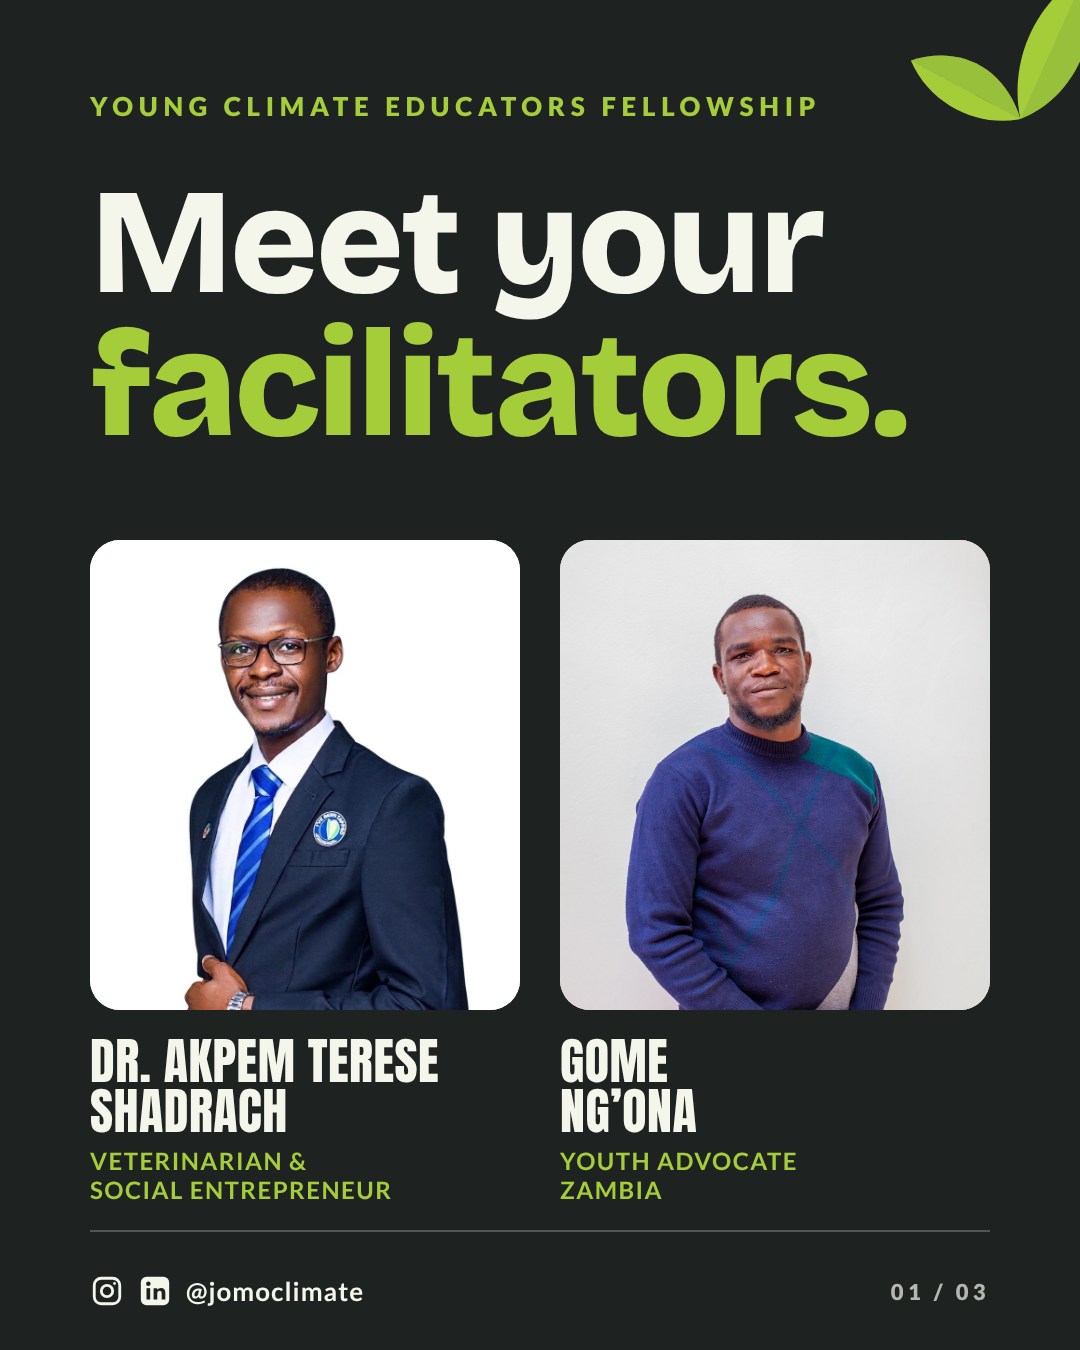
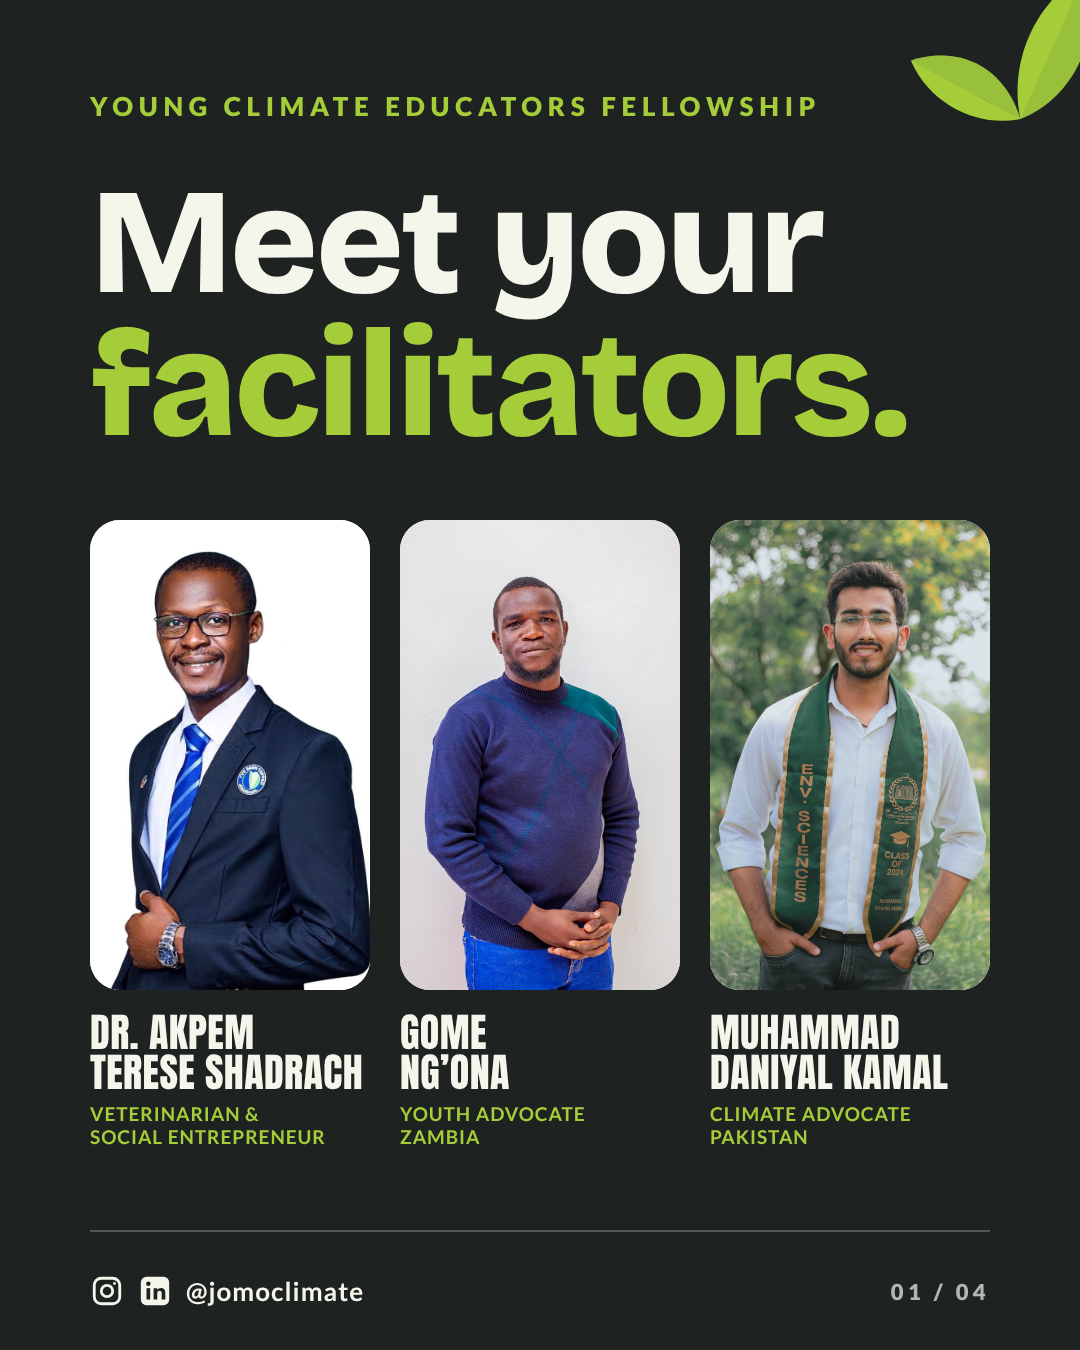
draft: facilitators carousel adds Muhammad Daniyal Kamal (4 slides, needs re-approval)
Claude-Session: https://claude.ai/code/session_01F6NcUsFQ3PsVvfZiAxD4Cd

Changed region(s): [[0.0611, 0.3733, 0.9167, 0.9022]]

diff --git a/tools/facilitators.py b/tools/facilitators.py
@@ -1,4 +1,4 @@
-"""YCEF facilitator bio flyers: a 3-slide carousel (cover + one bio each), 1080x1350.
+"""YCEF facilitator bio flyers: a 4-slide carousel (cover + one bio each), 1080x1350.
 Bios: the facilitators' own bios in the Drive folder "YCEF Facilitator Profile and Pictures", condensed.
 Photos: assets/photos/people/ycef-facilitators/ (consent rows in content/consent-log.csv).
 Run: python3 facilitators.py && node render.js
@@ -8,6 +8,8 @@ from build import *
 PH = ROOT.parent / "assets/photos/people/ycef-facilitators"
 SHADRACH = f"file://{PH}/akpem-terese-shadrach.jpg"
 GOME = f"file://{PH}/gome-ngona.jpg"
+DANIYAL = f"file://{PH}/muhammad-daniyal-kamal.jpg"   # cropped to head and shoulders from the full-length original
+T = 4
 
 EXTRA = f"""<style>
 .card {{ position:absolute; border-radius:30px; overflow:hidden; background:#fff; }}
@@ -21,31 +23,32 @@ EXTRA = f"""<style>
 .pt b {{ font-weight:900; }}
 </style>"""
 
-def bio(n, label, name_html, role, photo, pos, points, total=3):
+def bio(n, label, name_html, role, photo, pos, points, total=T, name_size=100):
     pts = "".join(f'<div class="pt"><div class="dot"></div><div>{p}</div></div>' for p in points)
     return page(f"""{EXTRA}
   <div class="label">{label}</div>
-  <div class="name" style="font-size:100px;margin-top:40px;width:470px">{name_html}</div>
-  <div class="role" style="margin-top:28px;width:470px">{role}</div>
+  <div class="name" style="font-size:{name_size}px;margin-top:40px;width:440px">{name_html}</div>
+  <div class="role" style="margin-top:28px;width:420px">{role}</div>
   <div style="position:absolute;right:66px;top:114px;width:440px;height:560px;border-radius:30px;background:{LIME}"></div>
   <div class="card" style="right:90px;top:90px;width:440px;height:560px"><img src="{photo}" style="object-position:{pos}"></div>
   <div class="pts" style="top:700px">{pts}</div>
 """, "off", n, total)
 
-# 1. Cover: both facilitators
-def portrait(photo, pos, name, sub, left):
-    return f'''<div class="card" style="left:{left}px;top:540px;width:430px;height:470px"><img src="{photo}" style="object-position:{pos}"></div>
-  <div style="position:absolute;left:{left}px;top:1036px;width:430px">
-    <div class="name" style="font-size:50px">{name}</div>
-    <div style="font-size:24px;font-weight:700;letter-spacing:.06em;margin-top:10px;color:{LIME}">{sub}</div></div>'''
+# 1. Cover: all three facilitators
+def portrait(photo, pos, name, sub, left, w=280):
+    return f'''<div class="card" style="left:{left}px;top:520px;width:{w}px;height:470px"><img src="{photo}" style="object-position:{pos}"></div>
+  <div style="position:absolute;left:{left}px;top:1012px;width:{w}px">
+    <div class="name" style="font-size:40px">{name}</div>
+    <div style="font-size:19px;font-weight:700;letter-spacing:.05em;margin-top:10px;color:{LIME}">{sub}</div></div>'''
 
 write("ycef-facilitators-01", page(f"""{EXTRA}
   <div class="label">Young Climate Educators Fellowship</div>
   <div class="brico" style="font-size:150px;margin-top:50px">Meet your<br><span style="color:{LIME}">facilitators.</span></div>
   {sprout(200, extra="right:-30px;top:-30px;transform:rotate(-12deg)")}
-  {portrait(SHADRACH, "50% 12%", "Dr. Akpem Terese<br>Shadrach", "VETERINARIAN &amp;<br>SOCIAL ENTREPRENEUR", 90)}
-  {portrait(GOME, "50% 14%", "Gome<br>Ng&rsquo;ona", "YOUTH ADVOCATE<br>ZAMBIA", 560)}
-""", "ink", 1, 3))
+  {portrait(SHADRACH, "50% 12%", "Dr. Akpem<br>Terese Shadrach", "VETERINARIAN &amp;<br>SOCIAL ENTREPRENEUR", 90)}
+  {portrait(GOME, "50% 14%", "Gome<br>Ng&rsquo;ona", "YOUTH ADVOCATE<br>ZAMBIA", 400)}
+  {portrait(DANIYAL, "50% 10%", "Muhammad<br>Daniyal Kamal", "CLIMATE ADVOCATE<br>PAKISTAN", 710)}
+""", "ink", 1, T))
 
 # 2. Dr. Akpem Terese Shadrach
 write("ycef-facilitators-02", bio(2, "YCEF facilitator",
@@ -68,4 +71,14 @@ write("ycef-facilitators-03", bio(3, "YCEF facilitator",
     "Passionate about <b>climate education and storytelling</b>",
     "Helps young people turn climate knowledge into <b>practical, community-led solutions</b>",
   ]))
+# 4. Muhammad Daniyal Kamal
+write("ycef-facilitators-04", bio(4, "YCEF facilitator",
+  "Muhammad<br>Daniyal<br><span style='color:" + OLIVE + "'>Kamal</span>",
+  "Climate advocate and sustainability leader from Pakistan",
+  DANIYAL, "50% 12%", [
+    "<b>Co-founder, RE-AD: Resilience and Adaptation</b>, a youth-led group for climate education, disaster risk reduction and water stewardship for students across Pakistan",
+    "<b>Official delegate for Pakistan at COP16</b> of the UN Convention to Combat Desertification, Riyadh",
+    "<b>Secretary SDGs, The Buraaq Association</b> (2023&ndash;2025), leading youth initiatives on the UN SDGs",
+    "Bachelor&rsquo;s in <b>Environmental Sciences</b>, Quaid-i-Azam University, Islamabad",
+  ], name_size=84))
 print("facilitators ok")

diff --git a/content/posts/2026-10-30-ycef-facilitators/captions.md b/content/posts/2026-10-30-ycef-facilitators/captions.md
@@ -1,20 +1,22 @@
 # Captions: Meet your YCEF facilitators
 Role: Copywriter (hook by Creative Director, visuals by Designer)
 
-Bios condensed from the facilitators' own bios in the Drive folder "YCEF Facilitator Profile and Pictures" (`Doc's BIO.docx`, `Gome Ng'ona Bio`). Photos from the same folder, saved in `assets/photos/people/ycef-facilitators/`.
+Bios condensed from the facilitators' own bios in the Drive folder "YCEF Facilitator Profile and Pictures" (`Doc's BIO.docx`, `Gome Ng'ona Bio`, `Muhammad Daniyal Kamal Profile`). Photos from the same folder, saved in `assets/photos/people/ycef-facilitators/`.
 
-Slot: Mon 2 Nov (week plan of 1 Nov, approved 2026-11-01), the day before YCEF closes. The post itself still needs the operator's sign-off, photo consent and each facilitator's OK.
+Slot: Mon 2 Nov (week plan of 1 Nov, approved 2026-11-01), the day before YCEF closes. Updated 2026-11-01 with a third facilitator, Muhammad Daniyal Kamal (operator added his folder). The change needs the operator's sign-off again, plus his photo consent.
 
 ### Mon 2026-11-02, 18:00 WAT · Instagram + Facebook (carousel) · Opportunities and calls to action
 Hook: Meet your facilitators.
-Visual: `visuals/ycef-facilitators-01.png` to `visuals/ycef-facilitators-03.png` (cover, Dr. Shadrach, Gome Ng'ona)
+Visual: `visuals/ycef-facilitators-01.png` to `visuals/ycef-facilitators-04.png` (cover, Dr. Shadrach, Gome Ng'ona, Muhammad Daniyal Kamal)
 
 Caption — Instagram:
-Meet two of your YCEF facilitators. 🌱
+Meet three of your YCEF facilitators. 🌱
 
 Dr. Akpem Terese Shadrach is a veterinarian and social entrepreneur, the founder of Vet Konect, who has trained and mentored 30,000+ young people in digital skills.
 
 Gome Ng’ona is a Zambian cultural heritage practitioner and youth advocate who helps young people turn climate knowledge into practical, community-led solutions.
+
+Muhammad Daniyal Kamal is a climate advocate from Pakistan, co-founder of the youth-led RE-AD: Resilience and Adaptation, and was an official delegate at COP16 of the UN Convention to Combat Desertification.
 
 Swipe to read their bios ➡
 
@@ -25,11 +27,13 @@ Apply: link in bio.
 #YCEF #ClimateAction #YouthLed #Nigeria #Zambia
 
 Caption — Facebook:
-Meet two of your YCEF facilitators. 🌱
+Meet three of your YCEF facilitators. 🌱
 
 Dr. Akpem Terese Shadrach is a veterinarian and social entrepreneur, the founder of Vet Konect, who has trained and mentored 30,000+ young people in digital skills.
 
 Gome Ng’ona is a Zambian cultural heritage practitioner and youth advocate who helps young people turn climate knowledge into practical, community-led solutions.
+
+Muhammad Daniyal Kamal is a climate advocate from Pakistan, co-founder of the youth-led RE-AD: Resilience and Adaptation, and was an official delegate at COP16 of the UN Convention to Combat Desertification.
 
 Swipe to read their bios.
 
@@ -39,18 +43,20 @@ Apply: https://jomoclimatechange.org/events?apply=ycef
 
 #YCEF #ClimateAction #YouthLed
 
-Alt text: Slide 1: dark graphic titled "Meet your facilitators" for the Young Climate Educators Fellowship, with portrait photos of Dr. Akpem Terese Shadrach, veterinarian and social entrepreneur, in a navy suit and blue tie, and Gome Ng'ona, youth advocate from Zambia, in a navy sweater. Slide 2: Dr. Akpem Terese Shadrach's photo and bio: founder of Vet Konect, trained and mentored 30,000+ young people in digital skills, lead facilitator for Jobberman Nigeria in Benue State, 2023 Mandela Washington Fellow and 2024 Top Agri-food Pioneer (World Food Prize Foundation). Slide 3: Gome Ng'ona's photo and bio: background in education, climate advocacy and community engagement; youth-led climate action, malaria elimination advocacy and environmental sustainability; passionate about climate education and storytelling.
+Alt text: Slide 1: dark graphic titled "Meet your facilitators" for the Young Climate Educators Fellowship, with portrait photos of Dr. Akpem Terese Shadrach, veterinarian and social entrepreneur, in a navy suit and blue tie, Gome Ng'ona, youth advocate from Zambia, in a navy sweater, and Muhammad Daniyal Kamal, climate advocate from Pakistan, in a white shirt and green Environmental Sciences graduation stole. Slide 2: Dr. Akpem Terese Shadrach's photo and bio: founder of Vet Konect, trained and mentored 30,000+ young people in digital skills, lead facilitator for Jobberman Nigeria in Benue State, 2023 Mandela Washington Fellow and 2024 Top Agri-food Pioneer (World Food Prize Foundation). Slide 3: Gome Ng'ona's photo and bio: background in education, climate advocacy and community engagement; youth-led climate action, malaria elimination advocacy and environmental sustainability; passionate about climate education and storytelling. Slide 4: Muhammad Daniyal Kamal's photo and bio: co-founder of RE-AD: Resilience and Adaptation; official delegate for Pakistan at COP16 of the UN Convention to Combat Desertification, Riyadh; Secretary SDGs, The Buraaq Association (2023–2025); Bachelor's in Environmental Sciences, Quaid-i-Azam University, Islamabad.
 
 ### Mon 2026-11-02, 11:00 WAT · LinkedIn (document carousel) · Opportunities and calls to action
 Hook: Meet your facilitators.
-Visual: `visuals/ycef-facilitators-01.png` to `visuals/ycef-facilitators-03.png` (upload as a PDF document post, or as three images)
+Visual: `visuals/ycef-facilitators-01.png` to `visuals/ycef-facilitators-04.png` (upload as a PDF document post, or as four images)
 
 Caption — LinkedIn:
-Meet two of the facilitators for the Young Climate Educators Fellowship (YCEF).
+Meet three of the facilitators for the Young Climate Educators Fellowship (YCEF).
 
 Dr. Akpem Terese Shadrach is a veterinarian, social entrepreneur and founder of Vet Konect, a digital animal health platform for livestock farmers and pet owners across Africa. He has trained and mentored 30,000+ young people in digital skills, leads Jobberman Nigeria's facilitators in Benue State, and is a 2023 Mandela Washington Fellow.
 
 Gome Ng’ona is a Zambian cultural heritage practitioner, development professional and youth advocate. His work spans youth-led climate action, malaria elimination advocacy and environmental sustainability, and he is passionate about climate education and storytelling.
+
+Muhammad Daniyal Kamal is a climate advocate and sustainability leader from Pakistan with a Bachelor's in Environmental Sciences from Quaid-i-Azam University, Islamabad. He co-founded RE-AD: Resilience and Adaptation, a youth-led organisation for climate education, disaster risk reduction and water stewardship among students across Pakistan, and represented Pakistan as an official delegate at COP16 of the UN Convention to Combat Desertification in Riyadh.
 
 YCEF brings together 50 university students and grassroots community volunteers (18+) from Nigeria and Zambia over three virtual weekends to research hyper-local climate challenges and design youth-led solutions.
 
@@ -66,15 +72,16 @@ Hook: Meet your facilitators.
 Visual: `visuals/ycef-facilitators-01.png`
 
 Caption — X:
-Meet two of your YCEF facilitators 🌱
+Meet three of your YCEF facilitators 🌱
 
-Dr. Akpem Terese Shadrach: veterinarian, social entrepreneur, founder of Vet Konect
-Gome Ng’ona: Zambian youth advocate working on climate education
+Dr. Akpem Terese Shadrach: vet, social entrepreneur, founder of Vet Konect
+Gome Ng’ona: youth advocate, Zambia
+Muhammad Daniyal Kamal: climate advocate, Pakistan
 
 Apply by Tue 3 Nov, 11:59 PM WAT: https://jomoclimatechange.org/events?apply=ycef
 
 #YCEF
 
-Alt text: Dark graphic titled "Meet your facilitators" for the Young Climate Educators Fellowship, with portrait photos of Dr. Akpem Terese Shadrach in a navy suit and Gome Ng'ona in a navy sweater, with their names and roles.
+Alt text: Dark graphic titled "Meet your facilitators" for the Young Climate Educators Fellowship, with portrait photos of Dr. Akpem Terese Shadrach in a navy suit, Gome Ng'ona in a navy sweater and Muhammad Daniyal Kamal in a white shirt and green graduation stole, with their names and roles.
 
-Sources: facilitator bios in Drive (see `review.md` for the line-by-line check); YCEF details and link from `references/brand-guide.md`. The X caption is about 260 characters, counting the link as 23. No funding promise.
+Sources: facilitator bios in Drive (see `review.md` for the line-by-line check); YCEF details and link from `references/brand-guide.md`. The X caption is about 250 characters, counting the link as 23. No funding promise.

diff --git a/content/posts/2026-10-30-ycef-facilitators/review.md b/content/posts/2026-10-30-ycef-facilitators/review.md
@@ -62,3 +62,23 @@ Every claim on the slides and in the captions, checked against the facilitators'
 Approved by the operator ("Approve all"). Before it goes out: confirm photo consent (consent log) and each facilitator's OK on their slide.
 
 Photo consent for both facilitators confirmed by the operator, 2026-11-01.
+
+## Update 2026-11-01: third facilitator, Muhammad Daniyal Kamal (Fact-checker, Policy and Safety Reviewer)
+
+The operator added his folder to the Drive folder "YCEF Facilitator Profile and Pictures" (`Muhammad Daniyal Kamal Profile`, `IMG-20261028-WA0011.jpg`). He's added as slide 4, on the cover, and in every caption ("three of your facilitators").
+
+| Claim | Source line | Result |
+|---|---|---|
+| Climate advocate and sustainability leader from Pakistan | "a passionate climate advocate and sustainability leader from Pakistan" | Matches |
+| Co-founder, RE-AD: Resilience and Adaptation: youth-led, climate education, disaster risk reduction, water stewardship, students across Pakistan | "In 2023, he co-founded RE-AD: Resilience and Adaptation, a youth-led organization dedicated to climate education, disaster risk reduction, environmental conservation, and water stewardship among students across Pakistan" | Matches (environmental conservation left out for space) |
+| Official delegate for Pakistan at COP16 of the UN Convention to Combat Desertification, Riyadh | "official delegate at the 16th Conference of the Parties (COP16) to the United Nations Convention to Combat Desertification, held in Riyadh, Saudi Arabia" | Matches. It's named as the desertification COP so it isn't confused with the climate COP |
+| Secretary SDGs, The Buraaq Association (2023–2025), leading youth initiatives on the UN SDGs | "appointed Secretary SDGs (2023–2025) ... led numerous initiatives promoting the United Nations Sustainable Development Goals" | Matches |
+| Bachelor's in Environmental Sciences, Quaid-i-Azam University, Islamabad | stated in bio | Matches |
+
+**Left out:**
+- "currently pursuing his academic journey in the People's Republic of China" (not needed).
+- "recognition from representatives and ministries of several countries" (unspecific).
+
+**Photo:** his headshot was cropped from the full-length original to head and shoulders. The graduation stole reads "Env. Sciences, Class of 2024" with his name, which matches the bio. His consent-log row says **awaiting operator confirmation** (the earlier confirmation covered the first two facilitators).
+
+**Verdict for the update: PASS**, once the operator confirms his photo consent and signs off the changed post.
